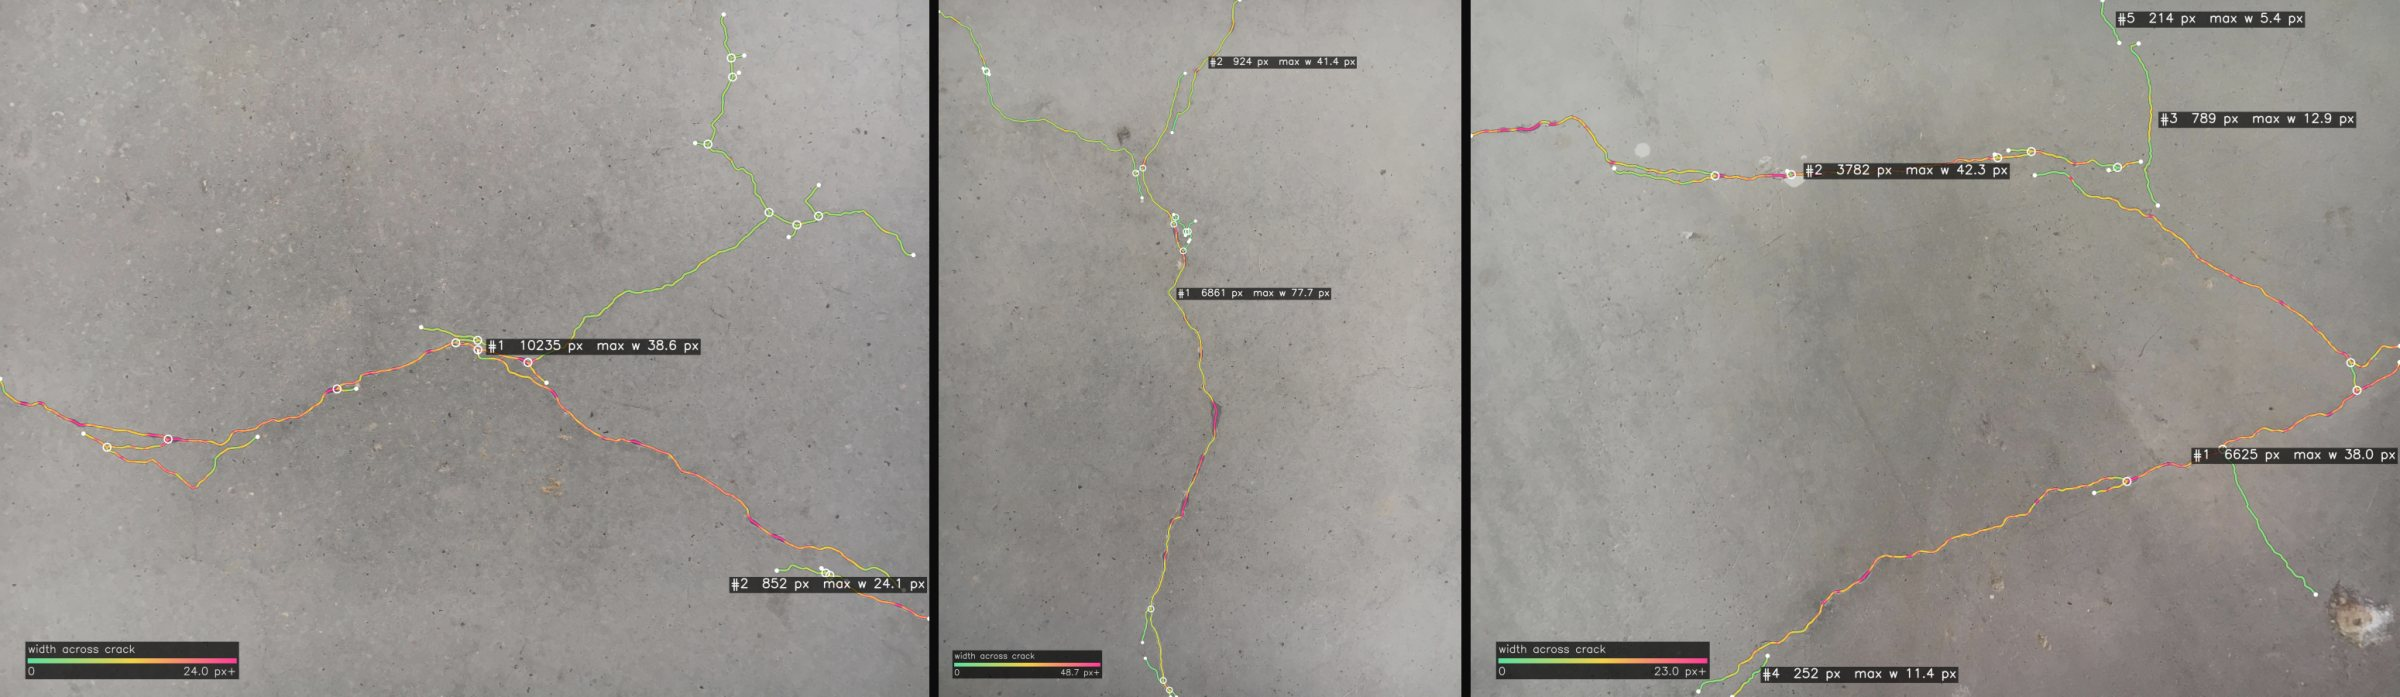
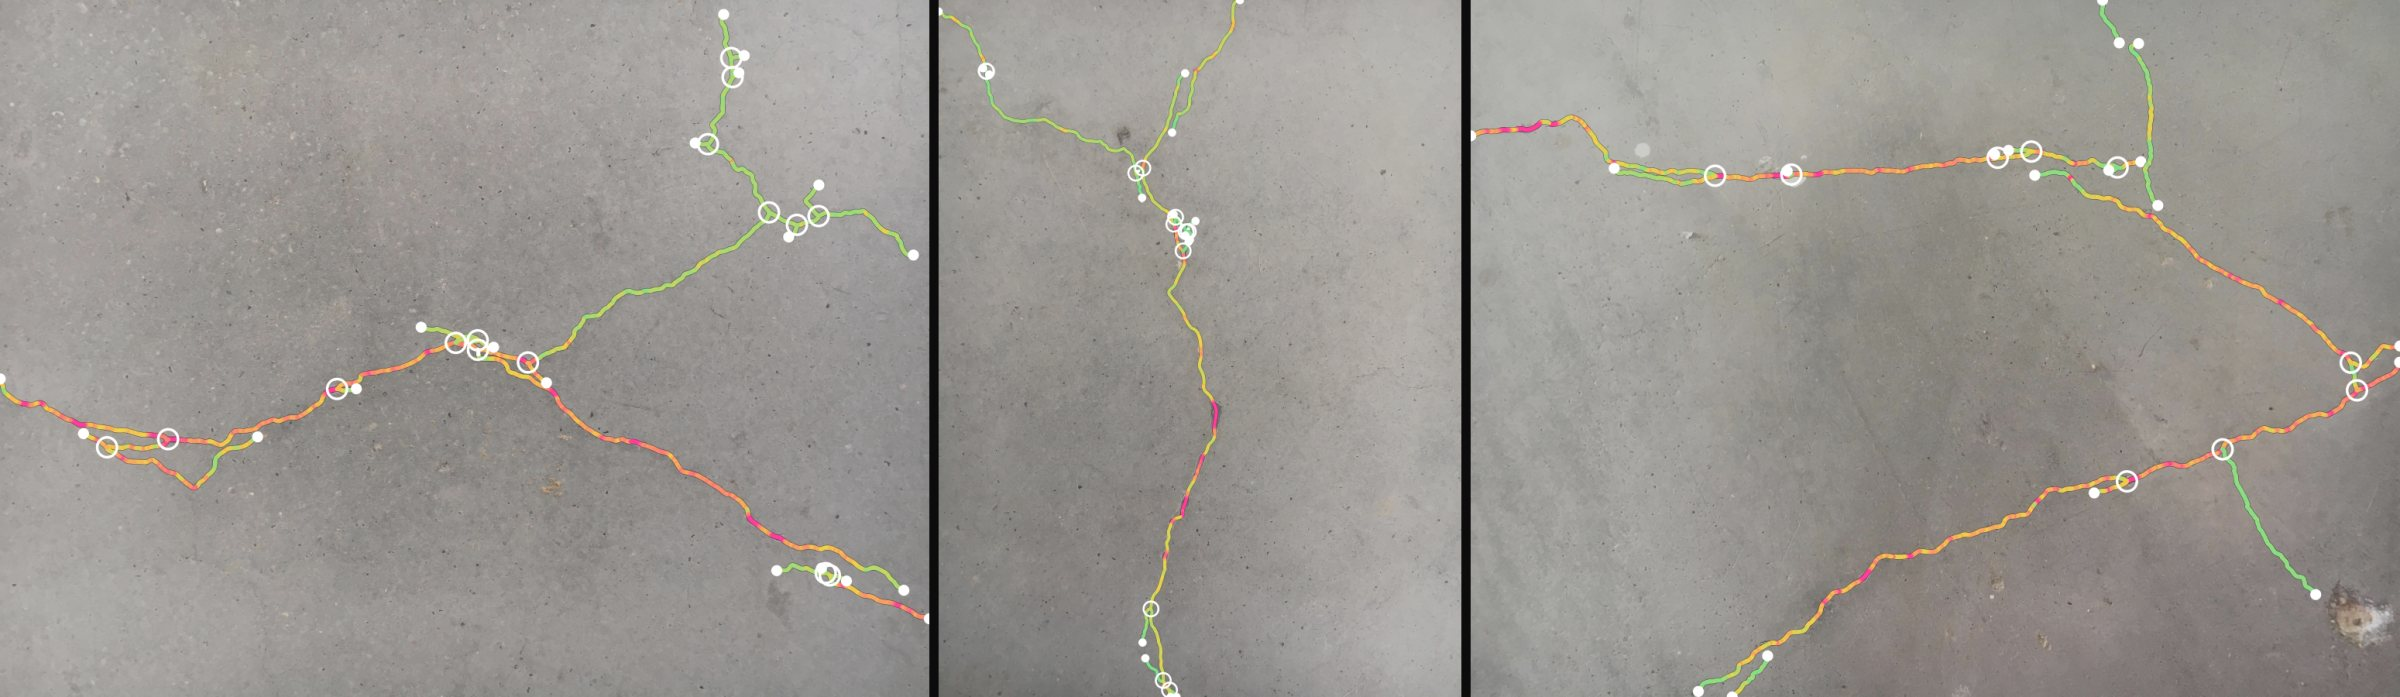
docs: clearer figures, the CI workflow, and notes on smoothing
The stages and real-wall figures draw thicker lines so they read at page
size; the README credits and alt text match. CI runs ruff and pytest on
Python 3.9, 3.11 and 3.12.

diff --git a/scripts/make_figures.py b/scripts/make_figures.py
@@ -153,7 +153,7 @@ def stages(mask, out, crop=None, photo=None):
     res = trace(mask, photo)
 
     H, W = m.shape
-    lw = max(2, int(round(max(H, W) / 500)))
+    lw = max(3, int(round(max(H, W) / 140)))
     a = _mask_canvas(m)
     from scipy.spatial import cKDTree
 
@@ -338,7 +338,7 @@ def gallery(real_dir, names, out, height=900):
     for n in names:
         mask, photo = _load_real(real_dir, n)
         res = trace(mask, photo)
-        img = overlay(res, photo, line=max(4, int(round(max(mask.shape) / 600))))
+        img = overlay(res, photo, labels=False, legend=False, line=max(6, int(round(max(mask.shape) / 230))))
         s = height / img.shape[0]
         tiles.append(cv2.resize(img, None, fx=s, fy=s, interpolation=cv2.INTER_AREA))
         tiles.append(np.full((height, 12, 3), 12, np.uint8))

diff --git a/CHANGELOG.md b/CHANGELOG.md
@@ -12,7 +12,7 @@ A rebuild around the approach the toolkit ended up with in practice: skeletonise
 - **End extension.** Free ends are carried out to the tip of the mask, which the skeleton stops one half-width short of.
 - **Trunk and branches.** Every crack is split into its longest run (the trunk) and the branches off it, each with its parent.
 - **Width along the crack.** The mask is sampled across the crack at every point and its edges found to sub-pixel; the same profile re-centres the line.
-- **Smoothing on arc length.** Lengths are measured on a smoothed line, not the pixel staircase that overstates diagonals by up to 8%.
+- **Smoothing on arc length.** Lengths are measured on a line smoothed in proportion to the crack's width, not on the pixel staircase that overstates diagonals by up to 8%. The centring step keeps only the slow part of its shift, so ragged edges are not copied back into the line.
 - **Corner fallback, fixed.** The v0.1 corner tracer is kept as `--method corners` and as the fallback in `auto`. Corners are now walked onto the centreline before they are linked, so a wide crack is traced down its middle rather than around its outline, and the spanning tree keeps its branches.
 - **Physical units** with `--px-size`, and **width classes** (`--width-classes 0.1,0.3,1`) that report the length of crack in each width band.
 - **Outputs**: per-image JSON with full geometry, a CSV row per crack, GeoJSON, SVG, overlays coloured by width, and plain centreline images.
@@ -20,7 +20,7 @@ A rebuild around the approach the toolkit ended up with in practice: skeletonise
 - **`fine-tracing synth`** generates cracks with exact ground truth: centreline, width at every point, junctions and ends, a mask spoilt the way segmentation output tends to be, and a concrete-like photo.
 - **`fine-tracing bench`** runs every tracer, v0.1 included, on the same synthetic cracks and writes tables and charts.
 - **Python API**: `trace(mask, image=None, **settings)` returns a `TraceResult`; settings live in a `TraceConfig`.
-- Tests for the graph, pruning, bridging, widths, mask formats, exports and the CLI, run on Python 3.9 to 3.12 in CI.
+- Tests for the graph, pruning, bridging, widths, mask formats, exports and the CLI, run on Python 3.9, 3.11 and 3.12 in CI.
 
 ### Changed
 

diff --git a/README.md b/README.md
@@ -76,7 +76,7 @@ On real masks there is no true line to score against, so I ran two checks on all
 - **What it finds.** 1,008 cracks; branches in 416 of the 458 images; 126 breaks in the masks bridged. The corner fallback was never needed. Each mask takes a median 0.63 s on one core of a laptop CPU.
 - **How steady it is.** I damaged each mask the way a weaker model would leave it (ragged edges, breaks, pinholes, specks) and traced it again. Against the trace of the undamaged mask, the new trace scores a mean F1 of 0.96 within 3 px, sits a median 0.86 px away, and its total length changes by a median 0.75%.
 
-![Three walls from the dataset with their cracks traced and coloured by width, each crack labelled with its length and maximum width](docs/media/real-gallery.jpg)
+![Three more walls from the dataset with their cracks traced and coloured by width, rings at the junctions](docs/media/real-gallery.jpg)
 
 ## Quick start
 
